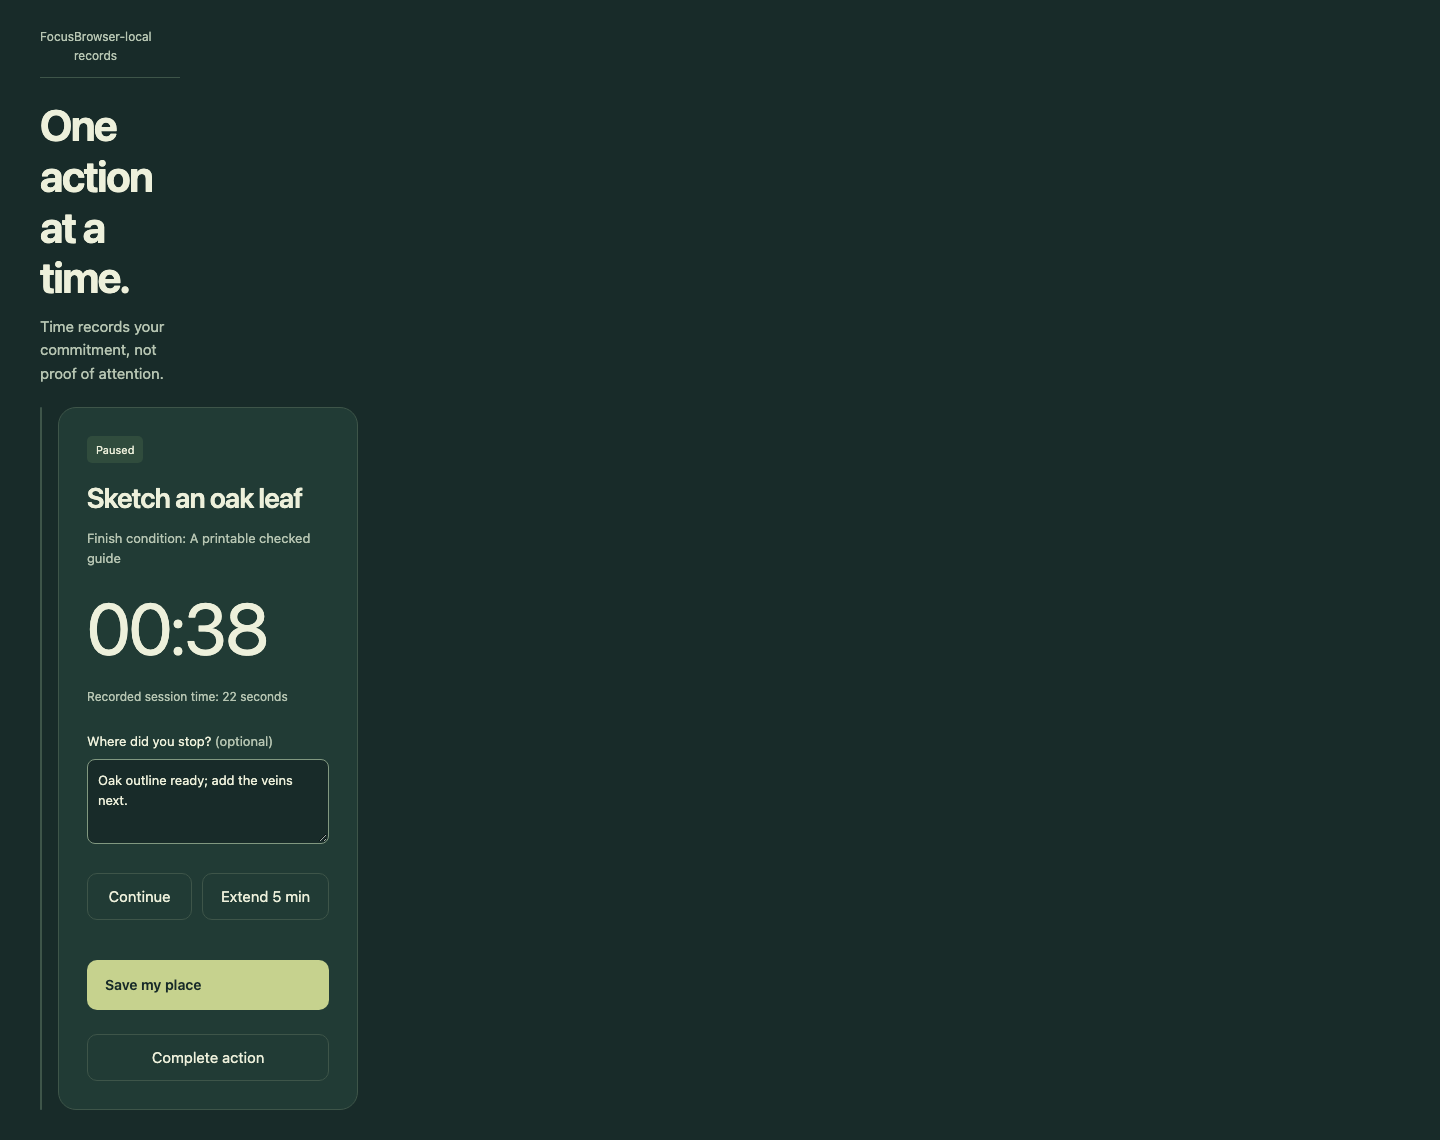
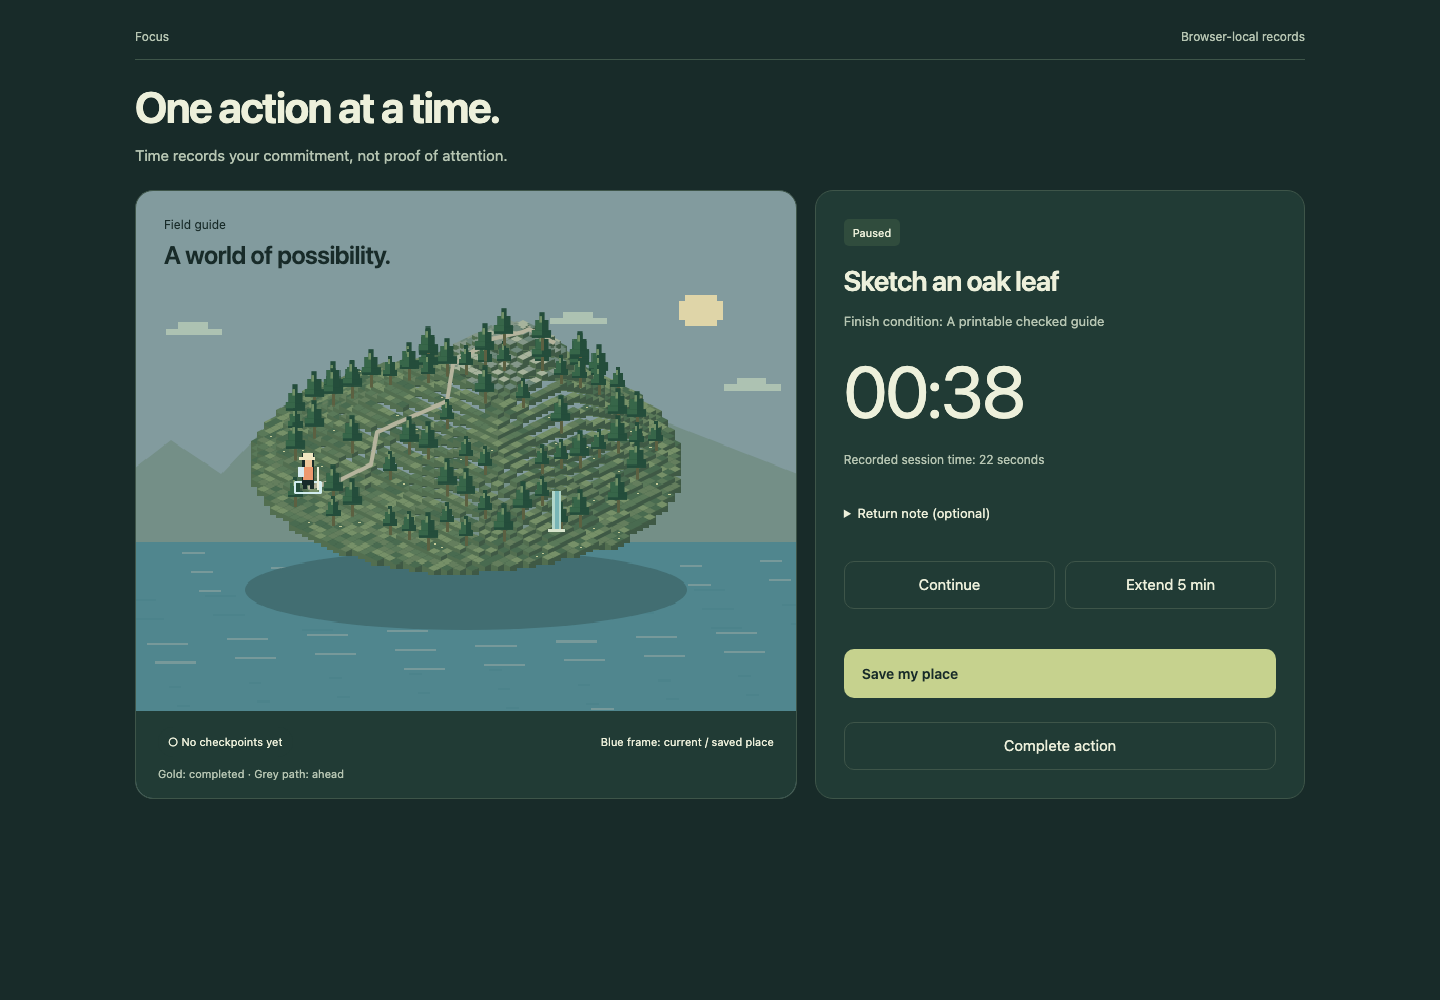
fix: Keep focus composition full width across task switches
Preserve one-column focus shell through responsive overrides, collapse optional notes, and focus the heading on entry. Verify two-task resume and reload at desktop, tablet and mobile widths without modifying timer or storage logic.

diff --git a/e2e/focus-layout.spec.ts b/e2e/focus-layout.spec.ts
@@ -1,0 +1,145 @@
+import { test, expect, type Page } from "@playwright/test";
+import type { Snapshot } from "../lib/domain";
+const read = (page: Page): Promise<Snapshot> =>
+  page.evaluate(() =>
+    JSON.parse(localStorage.getItem("work-trail:snapshot:v1")!),
+  );
+async function create(page: Page, name: string) {
+  await page.getByRole("button", { name: "＋ New task", exact: true }).click();
+  await page.getByLabel("Mountain name").fill(`Mountain ${name}`);
+  await page.getByLabel("Finish condition").fill(`Finish ${name}`);
+  await page.getByLabel("First action").fill(`Action ${name}`);
+  await page.getByLabel("Suggested session (minutes)").fill("2");
+  await page.getByRole("button", { name: "Create task", exact: true }).click();
+}
+async function save(page: Page, note: string) {
+  if (!(await page.getByLabel("Where did you stop?").isVisible()))
+    await page.getByText("Return note (optional)", { exact: true }).click();
+  await page.getByLabel("Where did you stop?").fill(note);
+  await page
+    .getByRole("button", { name: "Save my place", exact: true })
+    .click();
+}
+test("two-task focus layout and reload retain task-specific context", async ({
+  page,
+}, info) => {
+  const errors: string[] = [];
+  page.on("pageerror", (e) => errors.push(e.message));
+  await page.clock.install({ time: new Date("2026-10-15T12:00:00Z") });
+  await page.goto("/");
+  await expect(
+    page.getByRole("button", { name: "＋ New task", exact: true }),
+  ).toBeEnabled();
+  await create(page, "A");
+  await page.clock.pauseAt(
+    new Date((await page.evaluate(() => Date.now())) + 1000),
+  );
+  await page.getByRole("button", { name: "Start", exact: true }).click();
+  await page.clock.fastForward(10000);
+  await save(page, "Return note A");
+  const a = (await read(page)).sessions[0];
+  await create(page, "B");
+  await page.getByRole("button", { name: "Start", exact: true }).click();
+  await page.clock.fastForward(20000);
+  await save(page, "Return note B");
+  const b = (await read(page)).sessions[1];
+  expect(b.note).toBe("Return note B");
+  expect(b.remainingMs).toBe(100000);
+  expect(a.note).toBe("Return note A");
+  expect(a.remainingMs).toBe(110000);
+  await page.getByRole("button", { name: /Action A.*Mountain A/ }).click();
+  await expect(page.getByText("Return note A", { exact: true })).toBeVisible();
+  await page.getByRole("button", { name: "Resume", exact: true }).click();
+  await expect(
+    page.getByRole("heading", { name: "One action at a time." }),
+  ).toBeFocused();
+  await expect(page.getByLabel("Where did you stop?")).not.toBeVisible();
+  await page.screenshot({
+    path: `devpost/evidence/focus-repair-${info.project.name}.png`,
+    fullPage: true,
+  });
+  const layout = await page.locator(".shell.is-focusing").evaluate((el) => {
+    const main = el.querySelector("main")!,
+      world = el.querySelector(".world")!,
+      panel = el.querySelector(".action")!;
+    const box = (e: Element) => {
+      const r = e.getBoundingClientRect();
+      return {
+        x: r.x,
+        y: r.y,
+        width: r.width,
+        height: r.height,
+        right: r.right,
+        bottom: r.bottom,
+      };
+    };
+    return {
+      columns: getComputedStyle(el).gridTemplateColumns.split(" ").length,
+      shell: box(el),
+      main: box(main),
+      world: box(world),
+      panel: box(panel),
+      viewport: innerWidth,
+      overflow: document.documentElement.scrollWidth > innerWidth,
+    };
+  });
+  console.log(info.project.name, "focus computed layout", layout);
+  expect(layout.columns).toBe(1);
+  expect(layout.main.width).toBeCloseTo(layout.shell.width, 0);
+  expect(layout.overflow).toBe(false);
+  expect(layout.shell.width).toBeLessThanOrEqual(1250);
+  expect(layout.main.width).toBeGreaterThan(
+    Math.min(layout.viewport - 40, 1000),
+  );
+  if (layout.viewport > 800) {
+    expect(layout.world.right).toBeLessThanOrEqual(layout.panel.x);
+    expect(Math.abs(layout.world.y - layout.panel.y)).toBeLessThan(2);
+  } else {
+    expect(layout.world.y).toBeGreaterThan(layout.panel.y);
+    expect(layout.world.y).toBeLessThan(800);
+  }
+  await expect(
+    page.getByRole("heading", { name: "Action A", exact: true }),
+  ).toBeVisible();
+  await expect(
+    page
+      .locator("#world-title")
+      .locator("..")
+      .getByText("Mountain A", { exact: true }),
+  ).toBeVisible();
+  const resumed = await read(page);
+  expect(resumed.sessions[0]).toMatchObject({
+    note: "Return note A",
+    remainingMs: a.remainingMs,
+    creditedMs: a.creditedMs,
+  });
+  expect(resumed.sessions[1]).toEqual(b);
+  await page
+    .getByRole("button", { name: "Save my place", exact: true })
+    .click();
+  await page.reload();
+  await page.clock.runFor(1100);
+  await expect(page.getByText("Return note A", { exact: true })).toBeVisible();
+  await expect(
+    page.getByRole("button", { name: "Resume", exact: true }),
+  ).toBeEnabled();
+  await page.getByRole("button", { name: "Resume", exact: true }).click();
+  await expect(
+    page.getByRole("heading", { name: "Action A", exact: true }),
+  ).toBeVisible();
+  expect((await read(page)).sessions[1]).toEqual(b);
+  expect(errors).toEqual([]);
+  await expect(
+    page.getByRole("heading", { name: "One action at a time." }),
+  ).toBeFocused();
+  expect(
+    await page
+      .locator(".shell.is-focusing > main")
+      .evaluate((el) => el.getBoundingClientRect().width),
+  ).toBeCloseTo(layout.main.width, 0);
+  expect((await read(page)).sessions[0]).toMatchObject({
+    note: "Return note A",
+    remainingMs: a.remainingMs,
+    creditedMs: a.creditedMs,
+  });
+});

diff --git a/components/TodayView.tsx b/components/TodayView.tsx
@@ -1,5 +1,5 @@
 "use client";
-import { useRef, useState } from "react";
+import { useEffect, useRef, useState } from "react";
 import MountainWorld from "./MountainWorld";
 import SampleToday from "./SampleToday";
 import { useWorkTrail } from "@/lib/use-work-trail";
@@ -20,6 +20,13 @@ export default function TodayView() {
     [minutes, setMinutes] = useState<string | null>(null);
   const dialog = useRef<HTMLDialogElement>(null),
     form = useRef<HTMLFormElement>(null);
+  const heading = useRef<HTMLHeadingElement>(null);
+  useEffect(() => {
+    if (focus) {
+      heading.current?.focus({ preventScroll: true });
+      heading.current?.scrollIntoView({ block: "start", behavior: "instant" });
+    }
+  }, [focus]);
   if (!s)
     return (
       <main className="loading" role="status">
@@ -151,7 +158,7 @@ export default function TodayView() {
         </header>
         <div className="heading">
           <div>
-            <h1>
+            <h1 ref={heading} tabIndex={-1}>
               {focused
                 ? "One action at a time."
                 : completion
@@ -281,19 +288,22 @@ export default function TodayView() {
                     No completion was recorded.
                   </p>
                 )}
-                <label className="note-label" htmlFor="context-note">
-                  Where did you stop? <span>(optional)</span>
-                  <textarea
-                    id="context-note"
-                    maxLength={2000}
-                    value={session.note}
-                    disabled={readOnly}
-                    onChange={(e) =>
-                      dispatch({ type: "note", note: e.target.value })
-                    }
-                    placeholder="A thought that will help you return…"
-                  />
-                </label>
+                <details className="return-note">
+                  <summary>Return note (optional)</summary>
+                  <label className="note-label" htmlFor="context-note">
+                    Where did you stop? <span>(optional)</span>
+                    <textarea
+                      id="context-note"
+                      maxLength={2000}
+                      value={session.note}
+                      disabled={readOnly}
+                      onChange={(e) =>
+                        dispatch({ type: "note", note: e.target.value })
+                      }
+                      placeholder="A thought that will help you return…"
+                    />
+                  </label>
+                </details>
                 <div className="button-row">
                   <button
                     disabled={readOnly || session.status === "expired"}

diff --git a/app/globals.css b/app/globals.css
@@ -32,12 +32,43 @@
 .world {
   background: #829b9e;
 }
-.is-focusing {
+.shell.is-focusing {
+  display: grid;
   grid-template-columns: 1fr;
   max-width: 1250px;
+  width: 100%;
+  margin-inline: auto;
 }
-.is-focusing .sidebar {
+.shell.is-focusing .sidebar {
   display: none;
+}
+.shell.is-focusing > main {
+  grid-column: 1 / -1;
+  width: 100%;
+  min-width: 0;
+}
+.shell.is-focusing .bento {
+  grid-template-columns: minmax(0, 1.35fr) minmax(320px, 1fr);
+  align-items: stretch;
+}
+.return-note {
+  font-size: 13px;
+}
+.return-note summary {
+  cursor: pointer;
+  min-height: 44px;
+  padding-block: 10px;
+}
+.return-note label {
+  display: block;
+  margin-top: 8px;
+}
+.is-focusing h1 {
+  scroll-margin-top: 18px;
+}
+.is-focusing h1:focus-visible {
+  outline: 2px solid #dec47f;
+  outline-offset: 5px;
 }
 .countdown {
   font-size: clamp(46px, 6vw, 72px);
@@ -799,5 +830,33 @@ dialog p {
     animation: none !important;
     transition: none !important;
     scroll-behavior: auto !important;
+  }
+}
+/* Focus remains a full-width composition even when the regular shell changes. */
+@media (max-width: 800px) {
+  .shell.is-focusing {
+    display: grid;
+    grid-template-columns: minmax(0, 1fr);
+  }
+  .shell.is-focusing .bento {
+    grid-template-columns: minmax(0, 1fr);
+    gap: 14px;
+  }
+  .shell.is-focusing > main {
+    padding: 16px;
+  }
+  .shell.is-focusing .heading {
+    padding-top: 8px;
+    padding-bottom: 16px;
+  }
+  .shell.is-focusing .real-action {
+    gap: 10px;
+    padding: 16px;
+  }
+  .shell.is-focusing .real-action .primary {
+    margin-top: 4px;
+  }
+  .shell.is-focusing .world canvas {
+    min-height: 0;
   }
 }

diff --git a/playwright.config.ts b/playwright.config.ts
@@ -1,9 +1,13 @@
 import { defineConfig } from "@playwright/test";
 export default defineConfig({
   testDir: "./e2e",
-  use: { baseURL: process.env.PW_BASE_URL ?? "http://localhost:3000", timezoneId: 'UTC' },
+  use: {
+    baseURL: process.env.PW_BASE_URL ?? "http://localhost:3000",
+    timezoneId: "UTC",
+  },
   projects: [
     { name: "desktop", use: { viewport: { width: 1440, height: 1000 } } },
+    { name: "tablet", use: { viewport: { width: 1024, height: 900 } } },
     {
       name: "mobile",
       use: {

diff --git a/e2e/work-loop.spec.ts b/e2e/work-loop.spec.ts
@@ -34,6 +34,7 @@ test("real save, close, return, explicit resume, background catch-up, checkpoint
   await page.getByRole("button", { name: "Start", exact: true }).click();
   await expect(page.getByRole("timer")).toHaveText("01:00");
   await page.clock.fastForward(10000);
+  await page.getByText("Return note (optional)", { exact: true }).click();
   await page
     .getByLabel("Where did you stop?")
     .fill("Oak outline ready; add the veins next.");

diff --git a/HANDOFF.md b/HANDOFF.md
@@ -12,6 +12,16 @@ Existing design-lab is a standalone illustrative HTML prototype with synthetic r
 
 Open http://localhost:3000 (development) or http://localhost:3001 (local production build); both servers left running. Keep the same origin/browser for a saved task. Try the learner check below, resolve feedback and obtain approval before marking slice 2 complete. Do not begin slice 3 yet. No repeat discovery/mode interview.
 
+### Current focus-layout repair review
+
+The user reported cramped focus after switching tasks. Reproduced the exact A → Save A → create/start/save B → select/Resume A sequence before editing. Computed desktop/tablet layouts had two shell columns, `main` only 220/180px wide and the mountain 2px wide: later equal-specificity `.shell`/responsive rules overrode `.is-focusing`.
+
+Repair: `.shell.is-focusing` explicitly owns the one-column shell, full-width main and centered 1250px maximum; its bento maintains side-by-side scene and controls above 800px, with an explicit mobile stack below. Return-note textarea is collapsed in native details until requested. Start/Resume focuses the heading and scrolls it into view. No domain/storage/timer or terrain source changed; no user browser records were cleared, migrated or rewritten.
+
+Verification: `npm test` 13 pass; `npm run lint`, `npm run typecheck`, `npm run build` pass; `npm run test:e2e` 33 pass across desktop 1440px, tablet 1024px and mobile 390px. New `e2e/focus-layout.spec.ts` asserts computed widths/columns/alignment, no overflow, heading focus, collapsed note editor, correct mountain/action, A's note/110s and B's note/100s with separate preserved credited times, plus Resume A after reload. Test-only isolated browser contexts and fictional records used. Existing return-loop tests now open the note disclosure before editing; timing assertions retained.
+
+After repair: desktop shell/main both 1250px wide centered at x=95; tablet shell/main both 1024px wide; mobile both 390px with scene below controls at y≈560px. Inspected all three screenshots: `devpost/evidence/focus-repair-{desktop,tablet,mobile}.png`. Physical-device Safari and longer real-world text/zoom testing remain unverified. Review the repaired screen at localhost:3000; slice 2 remains unaccepted/unchecked, and slice 3 has not started. localhost:3001 may still serve an older running process; use the development URL for this repair review.
+
 ## Accepted limits and outstanding implementation checks
 
 Browser-local data only; export/import provides manual backup, not sync. Optional native browser voice with typing fallback. Gemini key server-only. Production public AI disabled until genuine abuse protection/quota constraints are verified. Closed-tab recovery uses last durable heartbeat; absence receives no credit. Verify current framework/runtime/model versions and real service limits during their slices.

diff --git a/devpost/checklist.md b/devpost/checklist.md
@@ -88,5 +88,7 @@ Activity mode: running app/editor preferred, disclose static fallback if needed.
 
 ## Revisions
 
+- Slice 2 focus-layout regression reproduced with two distinct tasks and fixed via explicit `.shell.is-focusing` shell/main/responsive rules, collapsed optional note editor and focus-heading entry. Domain/timer/storage semantics unchanged. 13 domain tests and 33 desktop/tablet/mobile browser tests plus lint/typecheck/build pass. See HANDOFF.md and focus-repair screenshots; slice 2 user acceptance is still pending.
+
 - User visual feedback: retain original terrain/bento identity, select Dusk instead of Woodland, strengthen localized completion light and climber, and shorten mobile hierarchy. Implemented within slice 1 only; revised visual approval remains pending. No later slice advanced.
 - The user subsequently accepted slice 1 and authorized slice 2 plus local checkpoint commits on `MitPanchal14/feat/persistent-work-return-loop`. No push/deploy. Slice 2 adds real local records, guarded focus/recovery and completion/Undo; reviewed breakdowns, advanced planning, voice/AI, summit workflows and reports remain in their later slices. Stop for slice 2 review.
